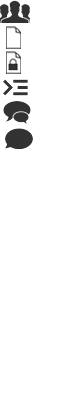
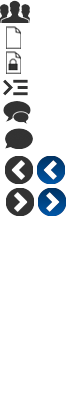
fix sections/index pagination

Changed region(s): [[0.5143, 0.39, 0.9429, 0.54], [0.0571, 0.39, 0.4857, 0.54]]

diff --git a/public/stylesheets/application.css b/public/stylesheets/application.css
@@ -796,6 +796,42 @@ section header h1 {
 
 }
 
+/*** PAGINATION ***/
+
+.pagination {
+  border-top: 1px solid #EEE;
+  margin: 10px;
+  padding-top: 10px;
+}
+
+.pagination .disabled {
+  opacity: 0.4;
+}
+
+.prev_page, .next_page {
+  width: 32px;
+  height: 32px;
+  display: inline-block;
+}
+
+.prev_page {
+  float: left;
+  background: url(../images/i.png) -2px -154px no-repeat;
+}
+
+a.prev_page:hover {
+  background-position: -34px -154px;
+}
+
+.next_page {
+  float: right;
+  background: url(../images/i.png) -2px -186px no-repeat;
+}
+
+a.next_page:hover {
+  background-position: -34px -186px;
+}
+
 /*** TASK ***/
 
 .tasks_list {
